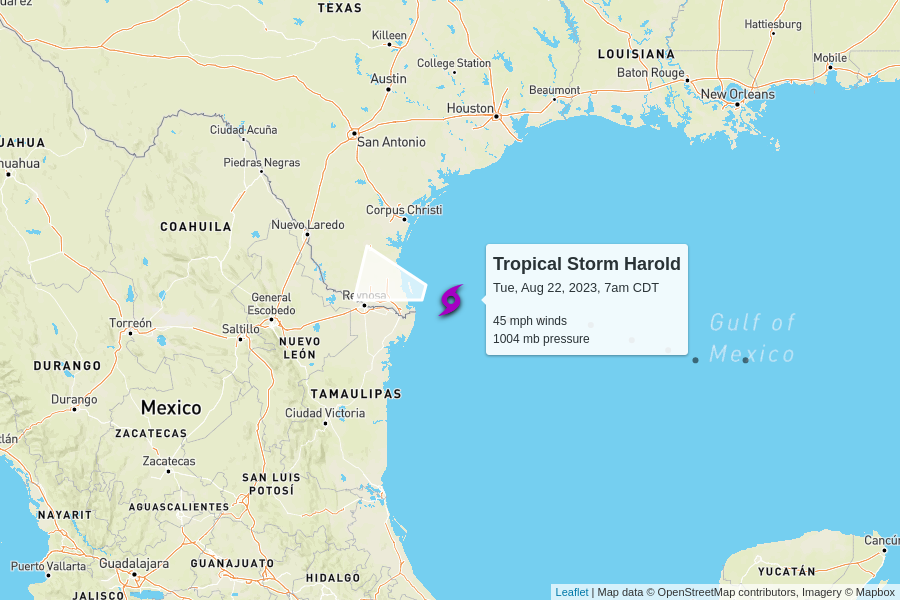
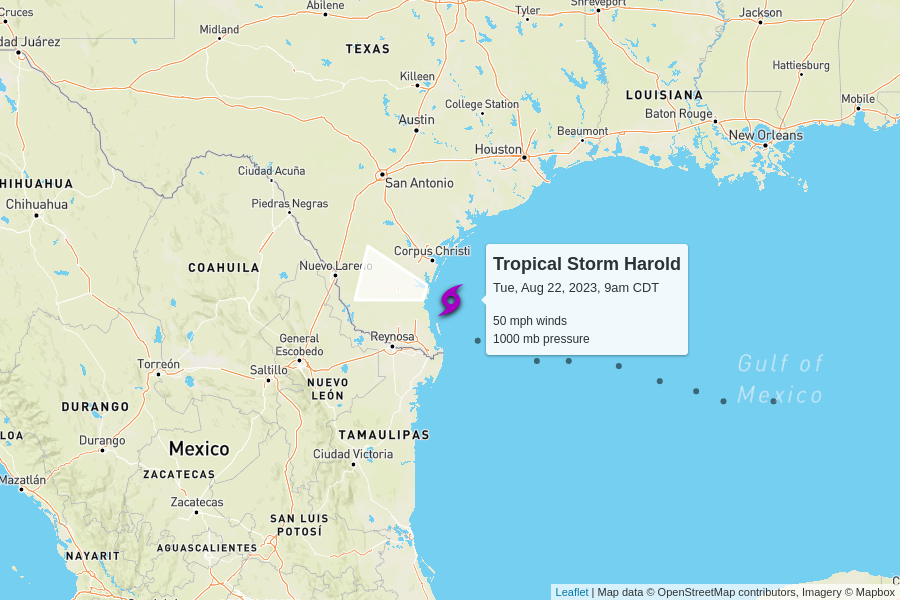
automatic update

diff --git a/docs/index.html b/docs/index.html
@@ -99,6 +99,50 @@
       <tr>
         <td colspan="6" class="storm category-0" >
           <h2>
+            Tropical Storm Harold
+            <p class="updated">last updated <span data-time>2023-08-22T14:00:00.000Z</span></p>
+          </h2>
+        </td>
+      </tr>
+      
+      <tr>
+        <th class="spacer"></th>
+        <th>wind speed</th>
+        <th>central pressure</th>
+        <th>movement</th>
+        <th>data (CSV)</th>
+        <th>National Hurricane Center</th>
+      </tr>
+      <tr>
+        <td class="spacer"></td>
+        <td>50 mph</td>
+        <td>1000 mb</td>
+        <td>
+          21 mph to the west-northwest
+          <br/>
+          <span style="display: inline-block; font-size: 1.5em; transform: rotate(285deg);">↑</span>
+        </td>
+        <td><a href="https://raw.githubusercontent.com/mgwalker/atlantic-hurricanes/main/data/csv/AL092023.csv">AL092023.csv</a></td>
+        <td><a href="https://www.nhc.noaa.gov/archive/2023/HAROLD.shtml?">NHC advisories</a></td>
+      </tr>
+      <tr id="storm_AL092023" >
+        <td class="spacer">
+        <td colspan="5">
+          <figure>
+            <img src="AL092023.png">
+            <figcaption>
+              Map data &copy; <a href="https://www.openstreetmap.org/copyright">OpenStreetMap</a> contributors,
+              Imagery &copy; <a href="https://www.mapbox.com/">Mapbox</a> |
+              <a href="https://www.mapbox.com/map-feedback/" target="_blank">Improve this map</a>
+            </figcaption>
+          </figure>
+        </td>
+      </tr>
+      
+
+      <tr>
+        <td colspan="6" class="storm category-0" >
+          <h2>
             Tropical Storm Franklin
             <p class="updated">last updated <span data-time>2023-08-22T12:00:00.000Z</span></p>
           </h2>
@@ -130,50 +174,6 @@
         <td colspan="5">
           <figure>
             <img src="AL082023.png">
-            <figcaption>
-              Map data &copy; <a href="https://www.openstreetmap.org/copyright">OpenStreetMap</a> contributors,
-              Imagery &copy; <a href="https://www.mapbox.com/">Mapbox</a> |
-              <a href="https://www.mapbox.com/map-feedback/" target="_blank">Improve this map</a>
-            </figcaption>
-          </figure>
-        </td>
-      </tr>
-      
-
-      <tr>
-        <td colspan="6" class="storm category-0" >
-          <h2>
-            Tropical Storm Harold
-            <p class="updated">last updated <span data-time>2023-08-22T12:00:00.000Z</span></p>
-          </h2>
-        </td>
-      </tr>
-      
-      <tr>
-        <th class="spacer"></th>
-        <th>wind speed</th>
-        <th>central pressure</th>
-        <th>movement</th>
-        <th>data (CSV)</th>
-        <th>National Hurricane Center</th>
-      </tr>
-      <tr>
-        <td class="spacer"></td>
-        <td>45 mph</td>
-        <td>1004 mb</td>
-        <td>
-          18 mph to the west-northwest
-          <br/>
-          <span style="display: inline-block; font-size: 1.5em; transform: rotate(285deg);">↑</span>
-        </td>
-        <td><a href="https://raw.githubusercontent.com/mgwalker/atlantic-hurricanes/main/data/csv/AL092023.csv">AL092023.csv</a></td>
-        <td><a href="https://www.nhc.noaa.gov/archive/2023/HAROLD.shtml?">NHC advisories</a></td>
-      </tr>
-      <tr id="storm_AL092023" >
-        <td class="spacer">
-        <td colspan="5">
-          <figure>
-            <img src="AL092023.png">
             <figcaption>
               Map data &copy; <a href="https://www.openstreetmap.org/copyright">OpenStreetMap</a> contributors,
               Imagery &copy; <a href="https://www.mapbox.com/">Mapbox</a> |
